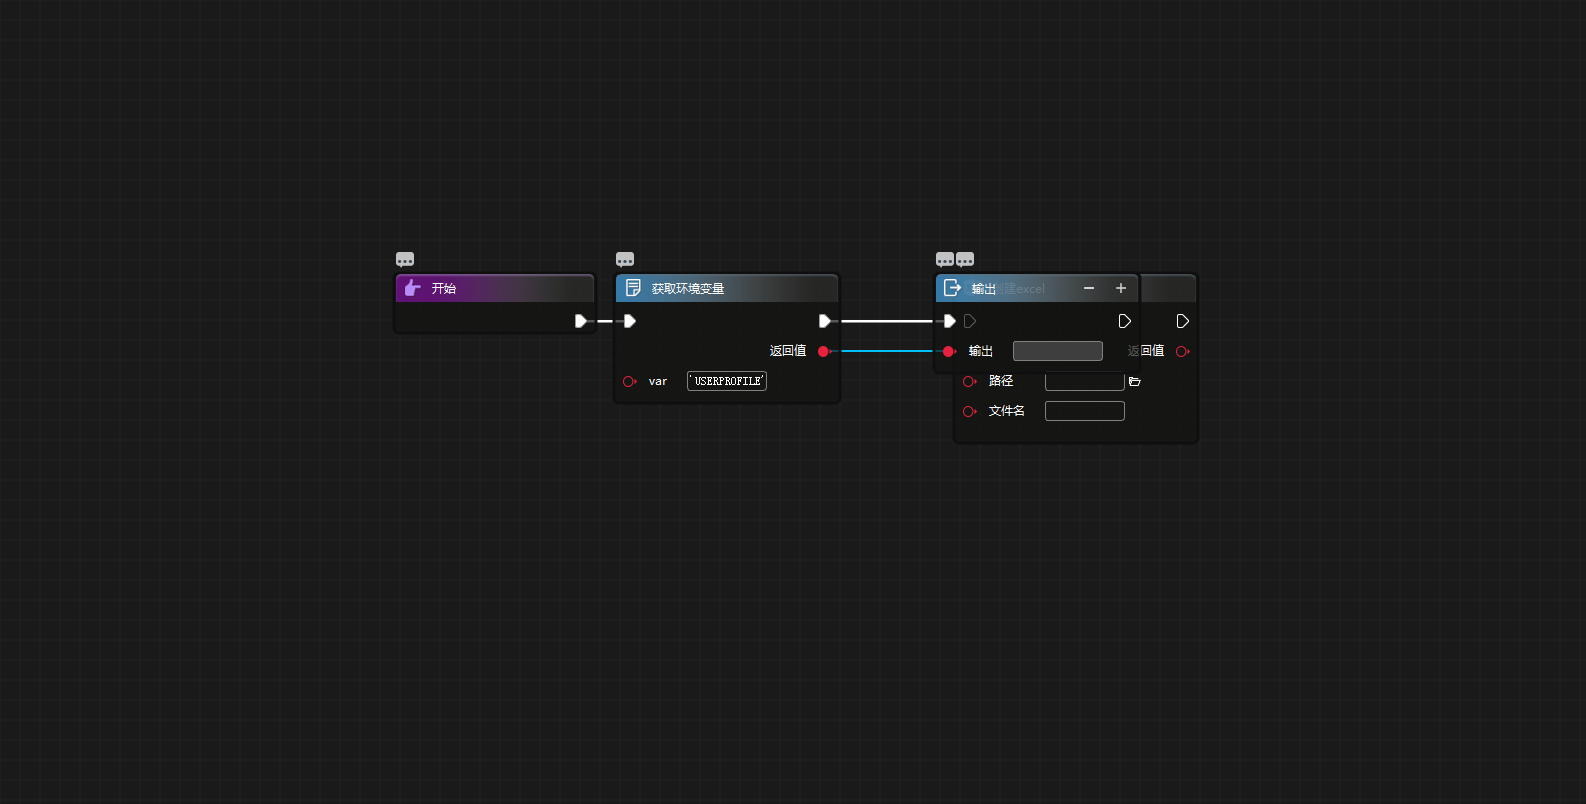
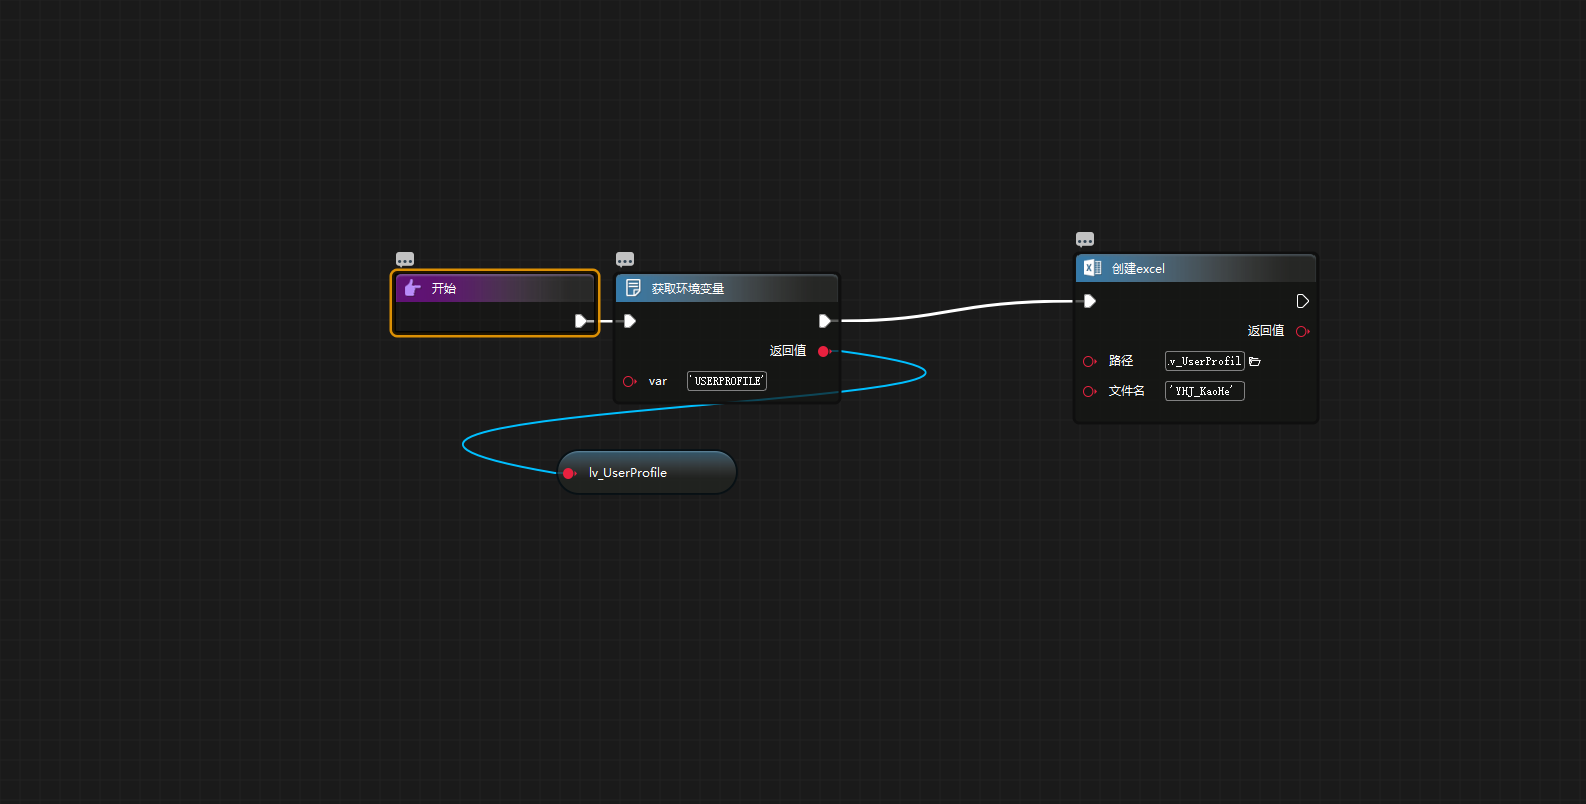
20200508153158

diff --git a/codes/Main.py b/codes/Main.py
@@ -1,5 +1,5 @@
 # coding=utf-8
-# 编译日期：2020-05-08 15:29:52
+# 编译日期：2020-05-08 15:31:59
 # 版权所有：www.i-search.com.cn
 import time
 import pdb
@@ -10,10 +10,10 @@ from sys import argv
 import sys
 import pandas as pd
 import ubpa.ibrowse as ibrowse
+import ubpa.iexcel as iexcel
 import ubpa.iie as iie
 import ubpa.ikeyboard as ikeyboard
 import ubpa.itools.rpa_environment as rpa_environment
-import ubpa.itools.rpa_str as rpa_str
 
 class YeHongJun_KaoShi:
      
@@ -35,12 +35,13 @@ class YeHongJun_KaoShi:
             self.input_arg = self.input_arg.replace("\\","/")
       
     def ExportExcel(self):
+        lv_UserProfile=None
         #获取环境变量
         self.__logger.debug('Flow:ExportExcel,StepNodeTag:08152548128127,Note:')
-        tvar08152548128127 = rpa_environment.get_sys_variable(var='USERPROFILE')
-        # 输出
-        self.__logger.debug('Flow:ExportExcel,StepNodeTag:08152616815133,Note:')
-        rpa_str.iprints(tvar08152548128127)
+        lv_UserProfile = rpa_environment.get_sys_variable(var='USERPROFILE')
+        #创建excel
+        self.__logger.debug('Flow:ExportExcel,StepNodeTag:08152534447125,Note:')
+        iexcel.create_excel(path=lv_UserProfile + '\Desktop\',file_name='YHJ_KaoHe')
       
     def GetData(self,pv_maxPageNumber=7,pv_key='i-Search-05'):
         lv_totalResult=None

diff --git a/codes/Main_d.py b/codes/Main_d.py
@@ -1,5 +1,5 @@
 # coding=utf-8
-# 编译日期：2020-05-08 15:29:52
+# 编译日期：2020-05-08 15:31:59
 # 版权所有：www.i-search.com.cn
 import time
 import pdb
@@ -10,10 +10,10 @@ from sys import argv
 import sys
 import pandas as pd
 import ubpa.ibrowse as ibrowse
+import ubpa.iexcel as iexcel
 import ubpa.iie as iie
 import ubpa.ikeyboard as ikeyboard
 import ubpa.itools.rpa_environment as rpa_environment
-import ubpa.itools.rpa_str as rpa_str
 
 class YeHongJun_KaoShi:
      
@@ -35,12 +35,13 @@ class YeHongJun_KaoShi:
             self.input_arg = self.input_arg.replace("\\","/")
       
     def ExportExcel(self):
+        lv_UserProfile=None
         #获取环境变量
         self.__logger.debug('Flow:ExportExcel,StepNodeTag:08152548128127,Note:')
-        tvar08152548128127 = rpa_environment.get_sys_variable(var='USERPROFILE')
-        # 输出
-        self.__logger.debug('Flow:ExportExcel,StepNodeTag:08152616815133,Note:')
-        rpa_str.iprints(tvar08152548128127)
+        lv_UserProfile = rpa_environment.get_sys_variable(var='USERPROFILE')
+        #创建excel
+        self.__logger.debug('Flow:ExportExcel,StepNodeTag:08152534447125,Note:')
+        iexcel.create_excel(path=lv_UserProfile + '\Desktop\',file_name='YHJ_KaoHe')
       
     def GetData(self,pv_maxPageNumber=7,pv_key='i-Search-05'):
         lv_totalResult=None
